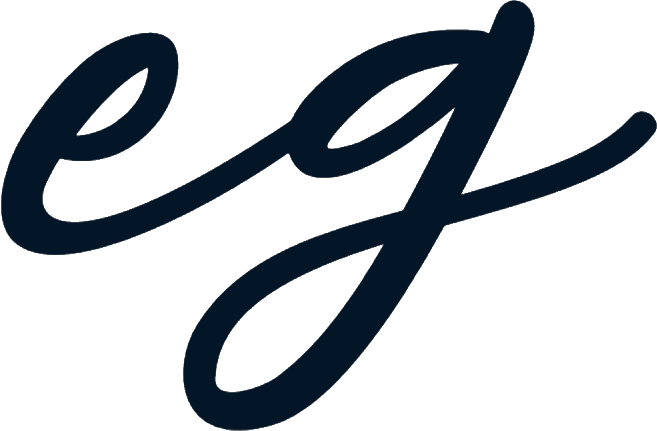
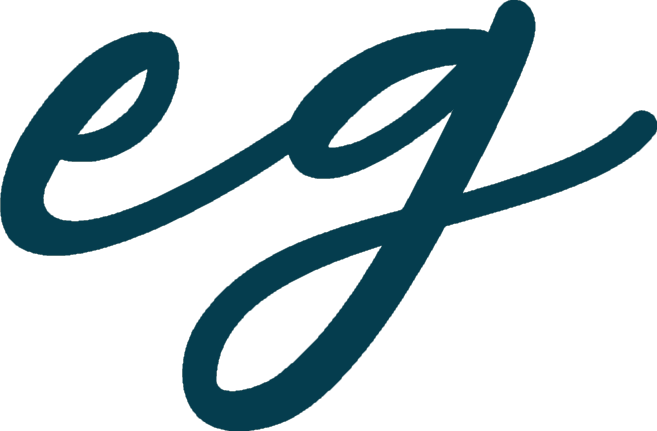
recolor brand and text

Changed region(s): [[0.0, 0.0, 1.0, 1.0]]

diff --git a/index.html b/index.html
@@ -10,7 +10,7 @@
     <!-- https://fonts.google.com/ -->
     <link href="css/bootstrap.min.css" rel="stylesheet">
     <link href="css/templatemo-xtra-blog.css" rel="stylesheet">
-    <link rel="icon" href="img/brand.png">
+    <link rel="icon" href="img/brand-alt.png">
     <!--
     
 TemplateMo 553 Xtra Blog
@@ -84,7 +84,7 @@ https://templatemo.com/tm-553-xtra-blog
             <div style="display: flex; height: 100vh;">
                 <div id="eg-brand-box">
                     <img class="eg-brand-img" src="img/brand.png">
-                    <h2 style="text-align: center;">
+                    <h2>
                         Emily Gorelik
                         <br><br>
                         Developer | Designer

diff --git a/css/templatemo-xtra-blog.css b/css/templatemo-xtra-blog.css
@@ -106,6 +106,11 @@ hr {
     padding: 10px;
 }
 
+h2 {
+    text-align: center;
+    color: var(--my-navy);
+}
+
 .tm-main {
     margin-left: 400px;
     padding: 0 100px;
